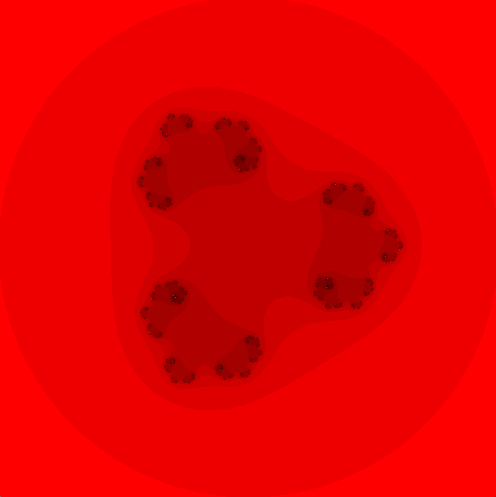
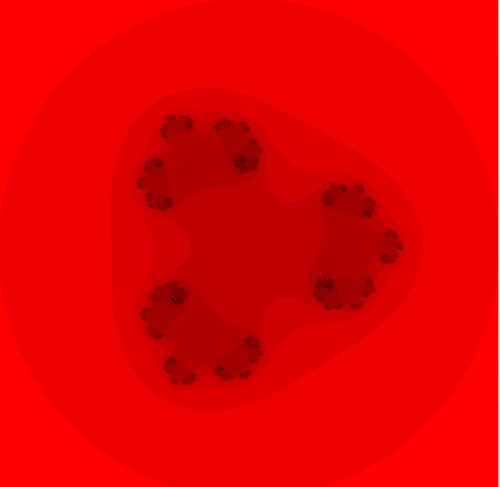
add more examples

diff --git a/src/main.cpp b/src/main.cpp
@@ -6,14 +6,14 @@
 #include "include/utils.hpp"
 
 void colot_template(double t, double& r, double& g,  double& b){
-    if (t> 0.2 && t<0.5) {
+    if (t> 0.2 && t<0.8) {
         r=1.0;
-        g=t/MAX; 
+        g=1-t/MAX; 
         b=t*(1-t);
         }
     else{
         r=t*t;
-        g=0.0; 
+        g=0.5; 
         b=t*(1-t)/MAX;}
 
 }
@@ -94,7 +94,7 @@ int main()
         glLoadIdentity();
 
         // Draw the Julia set
-        juliaset(30, 3,std::complex<double>(-0.66, 0.05), 2, 1);
+        juliaset(30, 8,std::complex<double>(-0.66, 0.05), 2, 1);
 
         /* Swap front and back buffers */
         glfwSwapBuffers(window);

diff --git a/README.md b/README.md
@@ -21,9 +21,12 @@ To run the program:
 ---
 ### Outputs
  <p align="center">
- <img center src="images/test_0.png" width=400 height=400/> 
+ <img center src="images/test_0.png" width=300 height=250/> 
  </p>
-
+ <p align="center">
+ <img center src="images/test_1.png" width=300 height=250/> 
+ </p>
+ 
 ---
 ### Resources:
 
